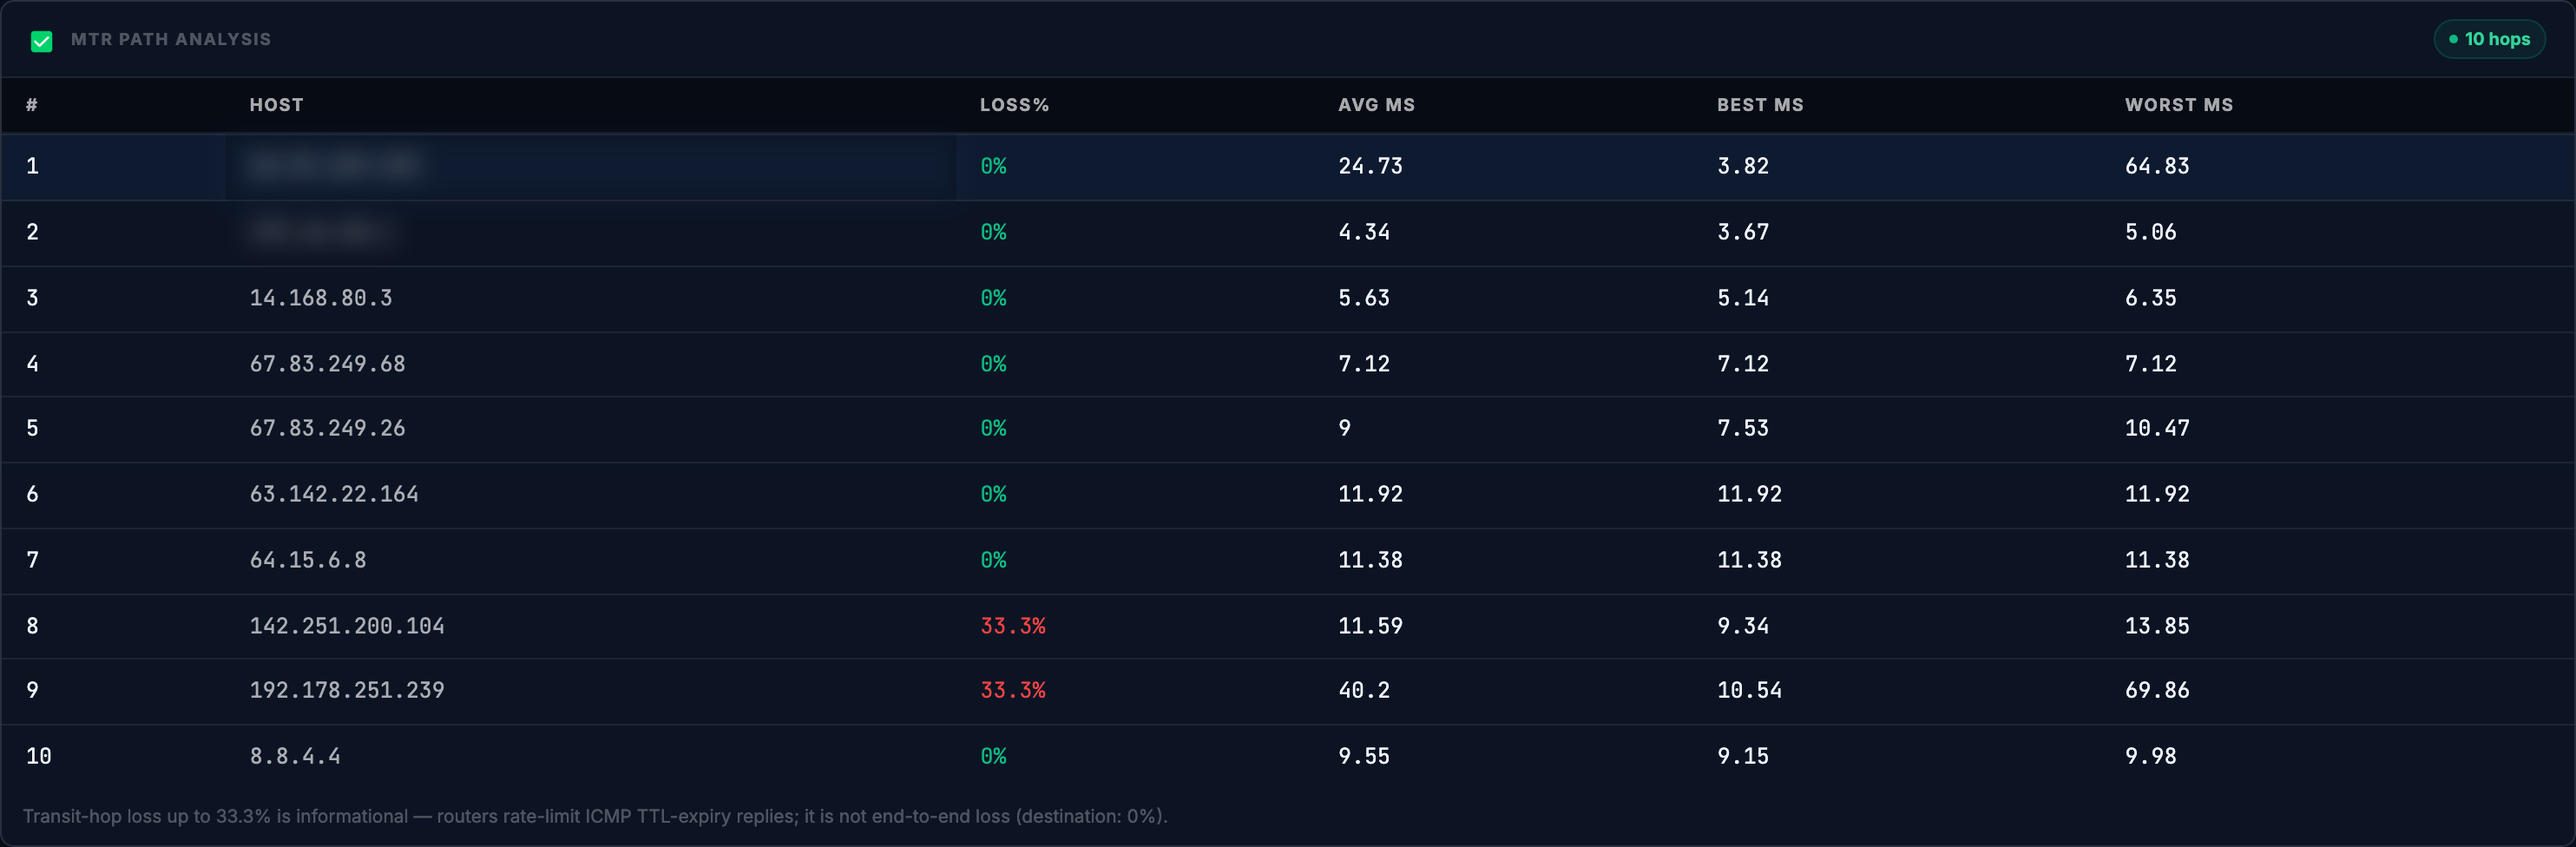
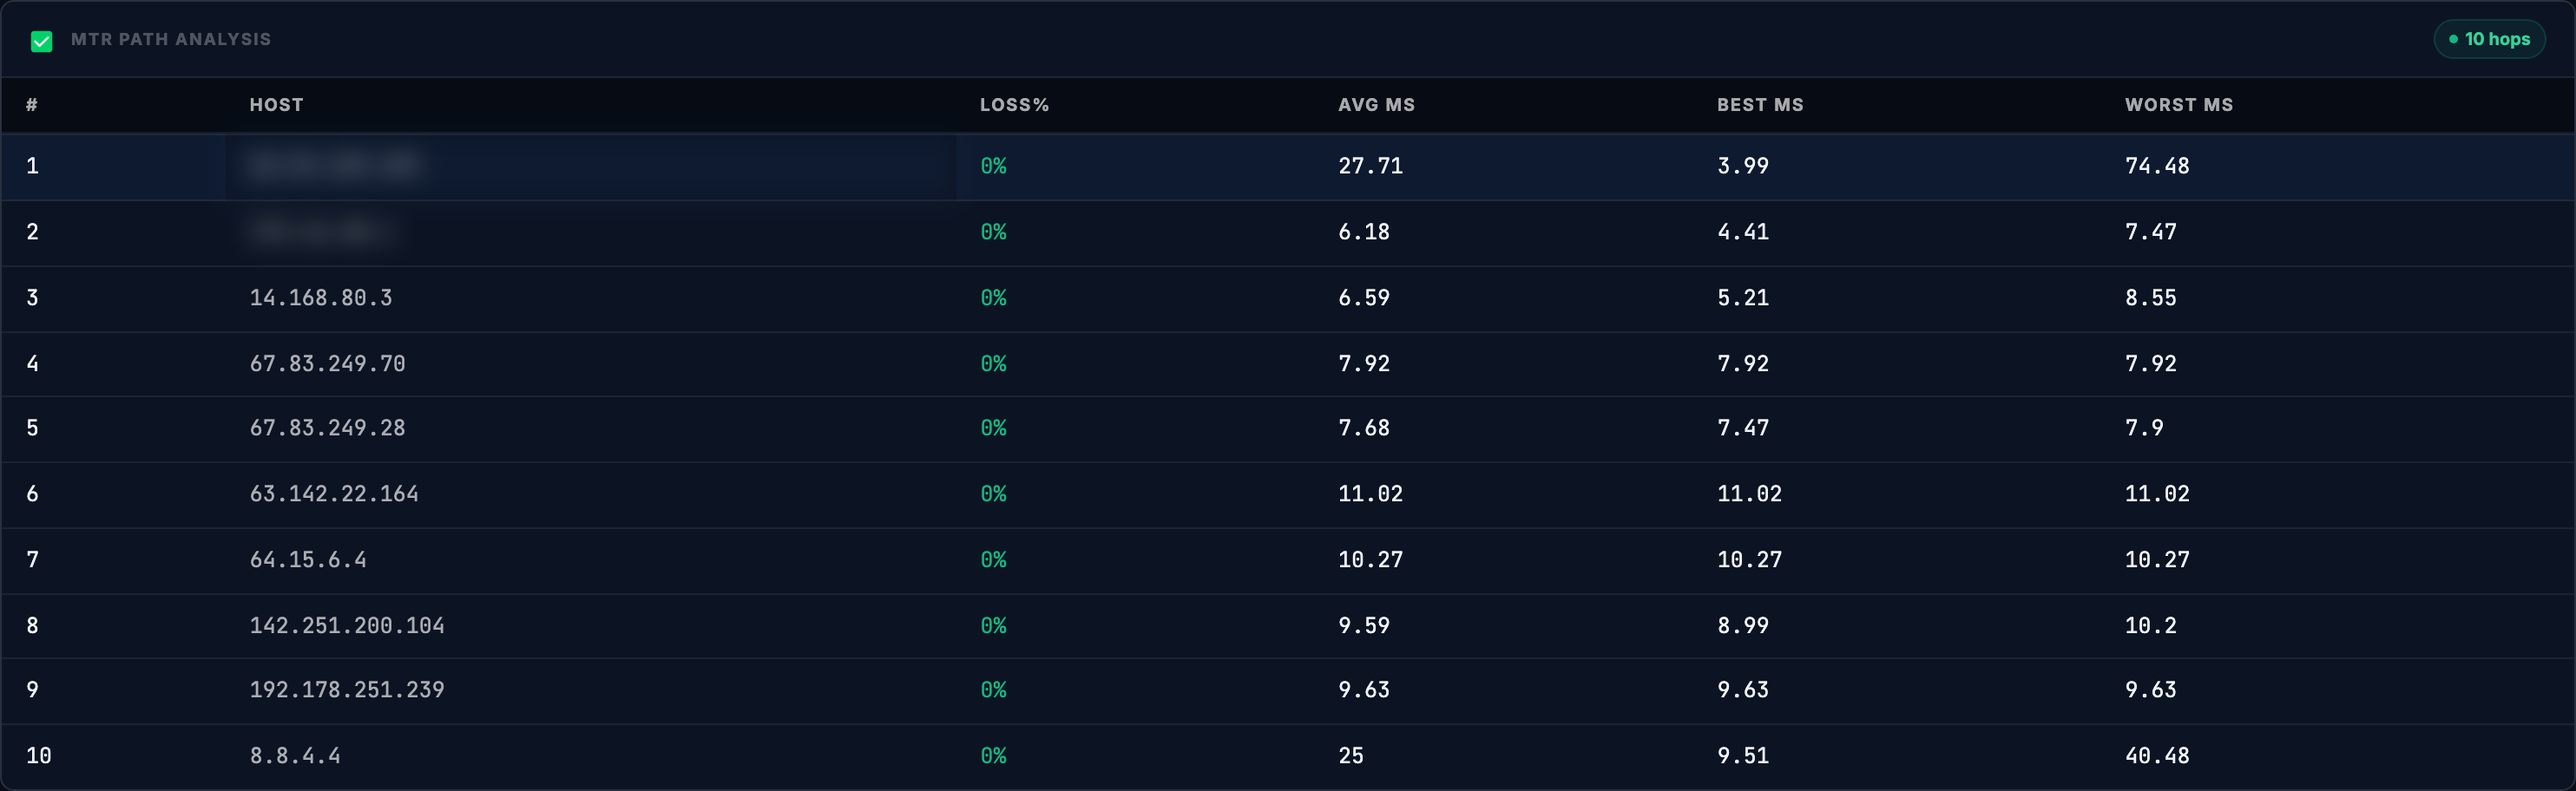
docs: NetDiag Report demo media recaptured (identifying values blurred throughout the recording)

diff --git a/demos/netdiag-report.md b/demos/netdiag-report.md
@@ -22,9 +22,9 @@ Open **Troubleshooting → NetDiag Report**, enter the target, leave all six tes
 
 <img src="media/netdiag-report/01-open.png" width="960" alt="NetDiag before a run: six test toggles (DNS, Ping, MTR, Port Scan, MSS/MTU, SSL/TLS), the target field reading dns.google, a report title, and the Run Tests button">
 
-<img src="media/netdiag-report/run.gif" width="960" alt="Animated: clicking Run Tests, the banner switching to running, then the seven summary cards and the DNS, ping, path, port, MTU and TLS sections appearing one after another, ending on the green healthy verdict. Shown at about five times speed.">
+<img src="media/netdiag-report/run.gif" width="960" alt="Animated: clicking Run Tests, the banner switching to running, then the seven summary cards and the DNS, ping, path, port, MTU and TLS sections appearing one after another, ending on the green healthy verdict. The first seconds real time, the rest at about four times speed.">
 
-Shown at about 5× speed; a full run takes well under a minute.
+The first seconds are real time, the rest at about 4× speed; a full run takes well under a minute.
 
 ## Reading the result
 
@@ -36,9 +36,9 @@ Shown at about 5× speed; a full run takes well under a minute.
 
 **Ping / Latency.** Minimum, average and maximum round-trip time and packet loss to the target.
 
-<img src="media/netdiag-report/12-section.png" width="960" alt="MTR Path Analysis: ten hops with loss, average, best and worst milliseconds per hop; two transit hops showing partial loss; a footnote explaining that transit-hop loss is informational because routers rate-limit ICMP replies">
+<img src="media/netdiag-report/12-section.png" width="960" alt="MTR Path Analysis: ten hops with loss, average, best and worst milliseconds per hop, every hop at 0% loss, ending at the resolved address">
 
-**MTR Path Analysis.** Every hop to the target with loss and best / average / worst latency. Loss on a transit hop that does not continue to the destination is a router rate-limiting its ICMP replies, not path loss; the footnote under the table says so and the verdict is taken from the destination, where loss was 0% here.
+**MTR Path Analysis.** Every hop to the target with loss and best / average / worst latency; the verdict is taken from the destination row. Loss on a transit hop that does not continue to the destination is a router rate-limiting its ICMP replies, not path loss; when a run shows it, a footnote under the table says so.
 
 <img src="media/netdiag-report/13-section.png" width="960" alt="Port Reachability: ports 22, 25, 53, 80, 443 and 3389 with open or filtered status and response time for the open ones">
 
